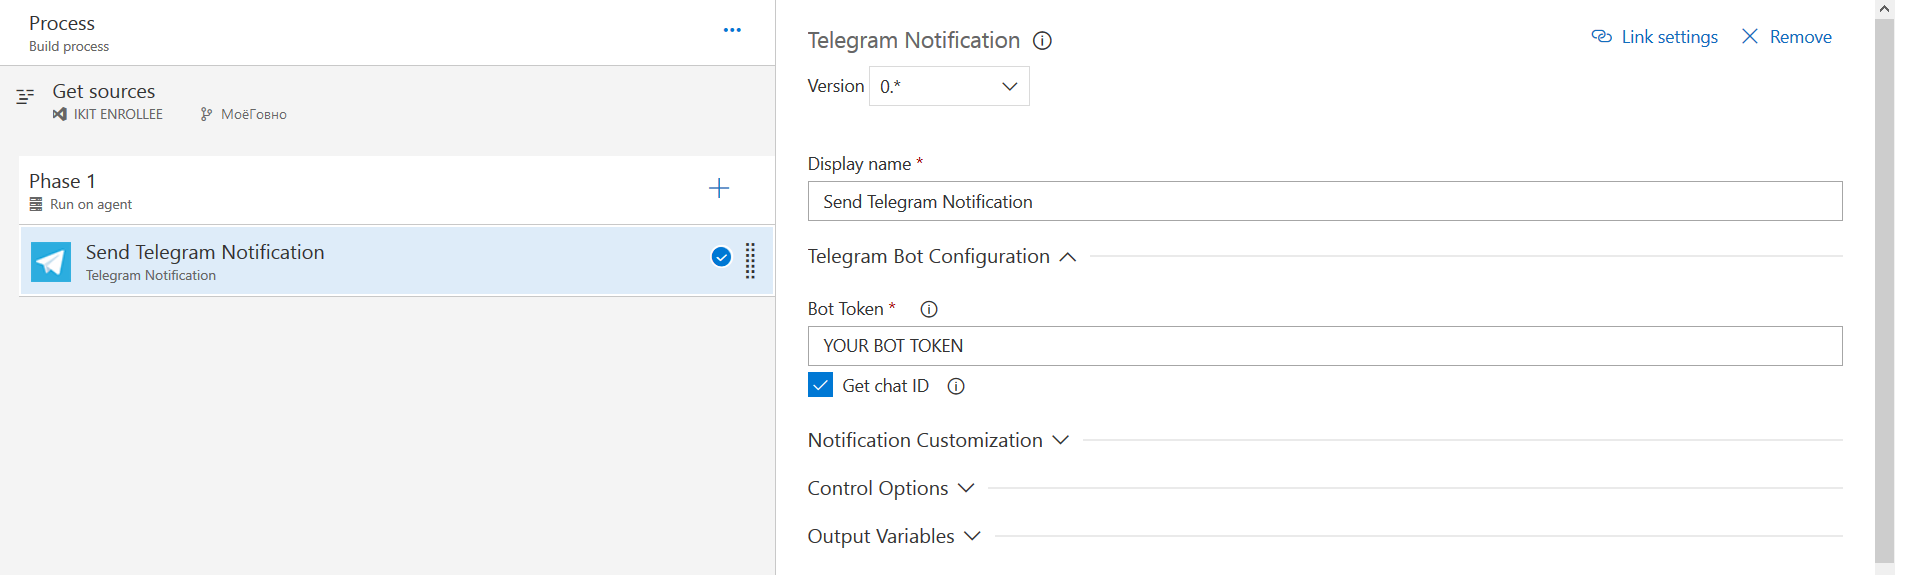
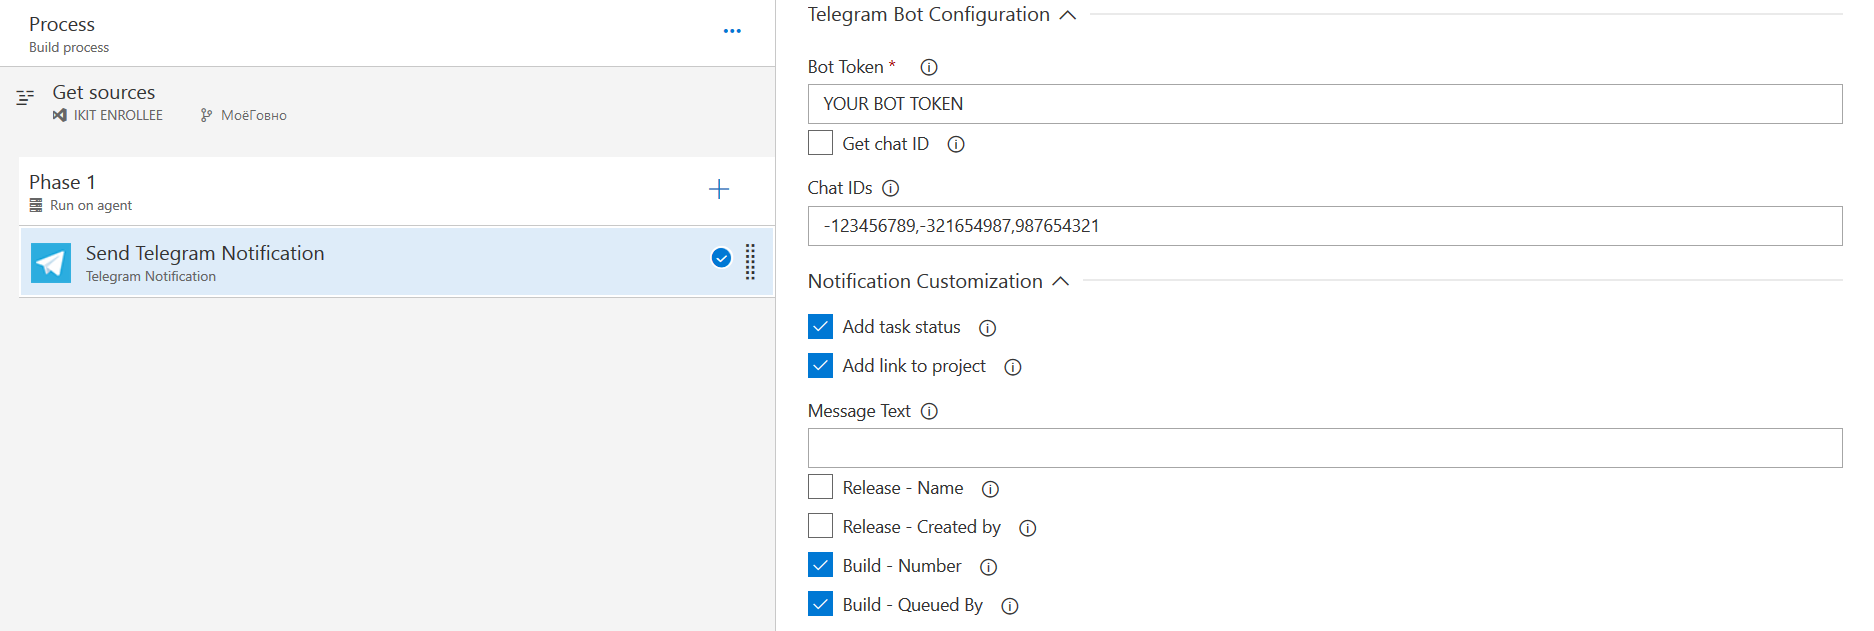
readme + screenshots

diff --git a/readme.md b/readme.md
@@ -1,14 +1,14 @@
 
-# Telegam Notification VSTS Extension
-
+# Telegram Notification VSTS Extension
+![TelegramTask](https://raw.githubusercontent.com/JackB1ack/telegram-notification/master/Screenshots/main.PNG)
 Telegram Notification task uses [Telegram Bot API](https://core.telegram.org/bots) and allows you to send customizable notifications to your Telegram chats and groups.
-This task has some predifined options of what info (e.g build/release status, ID etc.) to include to the message about your build/release process.
+This task has some predefined options of what info (e.g build/release status, ID etc.) to include to the message about your build/release process.
 
 # Getting started
 Follow the instructions below to configure the Telegram Notifications task to send messages to a group or chat.
 
 ## Create a Bot
-First of all you need to create a Telegram bot which will later send all the notifications to your chats.
+First of all, you need to create a Telegram bot which will later send all the notifications to your chats.
 
 * **Talk to Bot Father**: follow [Bot Father's](https://core.telegram.org/bots#6-botfather) instructions and create a bot
 * **Save Bot Token**: this token will be used by the task
@@ -18,28 +18,42 @@ First of all you need to create a Telegram bot which will later send all the not
 *Having a bot allows you to fully customize its appearance (nickname, user picture) and add it to as many chats or groups as you want.*
 
 ## Obtain chat IDs
-Currently Telegram does't offer a convinient way to obtain all chat ids from bot API. 
+Currently, Telegram doesn't offer a convenient way to obtain all chat ids from bot API. 
 So there are two ways to do it:
 
 ### 1. Add  [@RawDataBot](https://t.me/RawDataBot) to your group
 
-Upon joining it will send a JSON where your chat id will be located at message.chat.id.
+Upon joining it will send a JSON where your chat ID will be located at message.chat.id.
 ![RawDataBot](https://raw.githubusercontent.com/JackB1ack/telegram-notification/master/Screenshots/rawdatabot.PNG)
 
-**Don't forget to remove bot from chat right after.**
+**Don't forget to remove the bot from chat right after.**
 
 ### 2. Use built-in "Get chat ID" feature (*Preview*)
 
-If you want the bot to send notifications directly to you (not a group), trick with [@RawDataBot](https://t.me/RawDataBot) won't work. You need to:
+If you want the bot to send notifications directly to you (not a group), the trick with [@RawDataBot](https://t.me/RawDataBot) won't work. You need to:
 
 * **Check "Get chat Id" in task properties**
 ![GetChatId]()
-* **Queue build or release**: please make sure that this action won't affect any of your production processes. I suggest creating empty build\release definition just to get chat ID and then paste them to real task.
-* **Type /chat**: while task is running type /chat in every chat where your bot is present
-![SendChatCommand]()
+* **Queue build or release**: please make sure that this action won't affect any of your production processes. I suggest creating empty build\release definition just to get chat ID and then paste them into the real task.
+* **Type /chat**: while the task is running type */chat* in every chat where your bot is present
+![SendChatCommand](https://raw.githubusercontent.com/JackB1ack/telegram-notification/master/Screenshots/chatId.PNG)
 * **Type /stop**: type this command to finish task execution
-* **Paste your chat IDs to task properties**: copy all your IDs to task propety (use coma as delimeter *e.g -123456678,321654987*)
+* **Paste your chat IDs to task properties**: copy all your IDs to task property (use comma as delimiter *e.g -123456678,321654987*)
 
 ## Customize your message
 
-There are some basic predifined features both for build and release tasks.
+There are some basic predefined features both for build and release tasks.
+
+**For Release**
+
+* **Name** 
+* **Created by**
+
+**For Build**
+
+* **Number**
+* **Queued by**
+
+*NOTE: USE EITHER RELEASE OR BUILD RELATED OPTIONS DEPENDING ON YOUR PROCESS*
+
+**Message** - add custom message  to your notification. You can use [html markup](https://core.telegram.org/bots/api#html-style).
